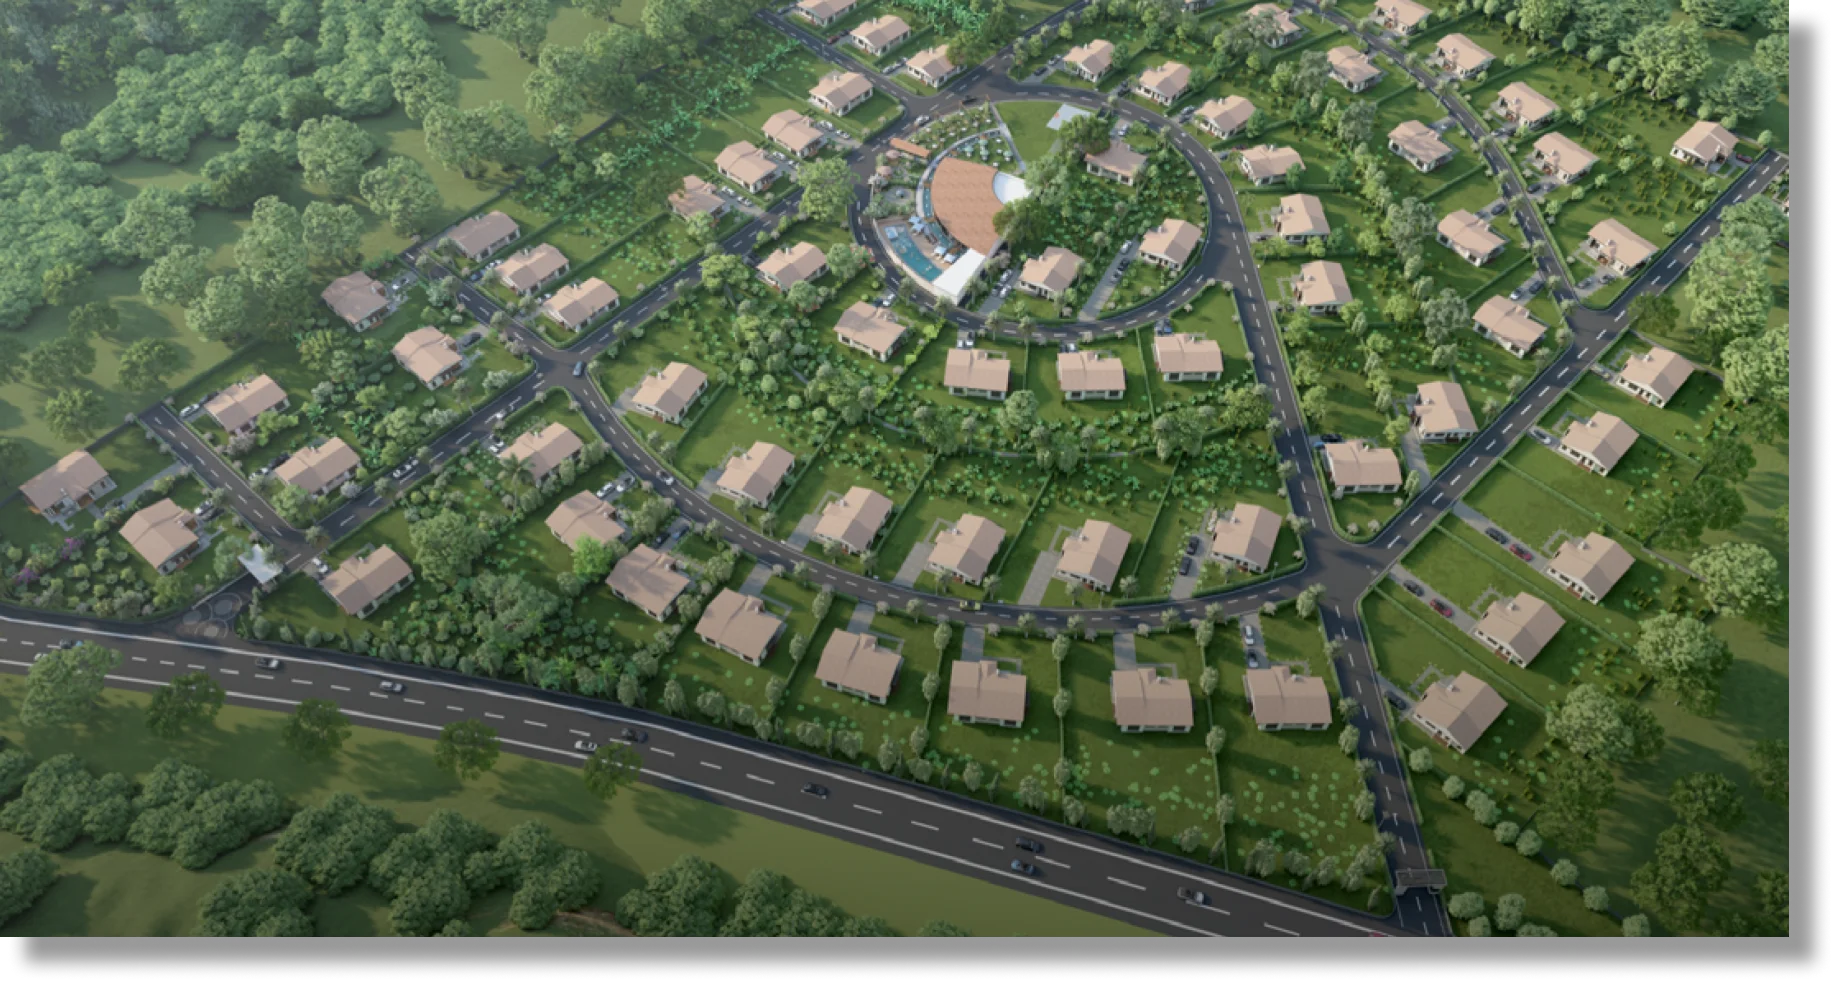
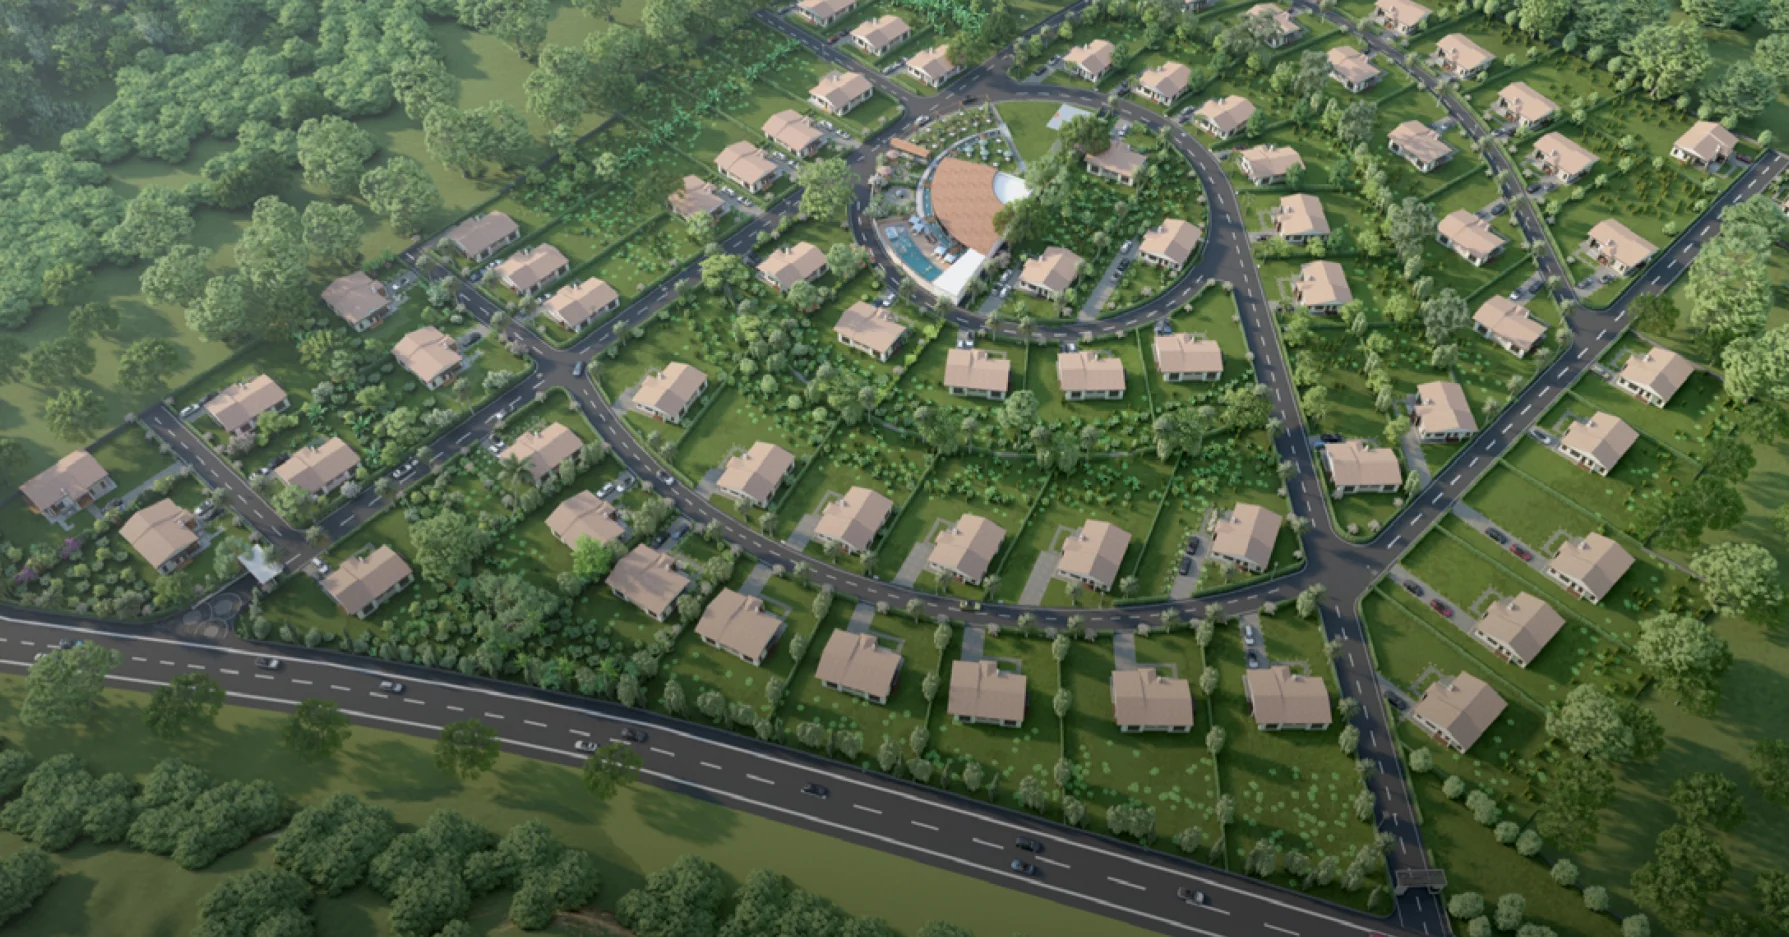
all images fixed

diff --git a/index.html b/index.html
@@ -348,7 +348,12 @@
             </h2>
           </div>
           <div class="map mb-3 md:mb-8">
-            <img src="./src/images/map.webp" class="w-full max-w-full" alt="" />
+            <img
+              class="image-shadow"
+              src="./src/images/map.webp"
+              class="w-full max-w-full"
+              alt=""
+            />
           </div>
           <div class="md:grid grid-cols-3 mb-4 md:mb-14">
             <div class="ck-item text-center py-10">
